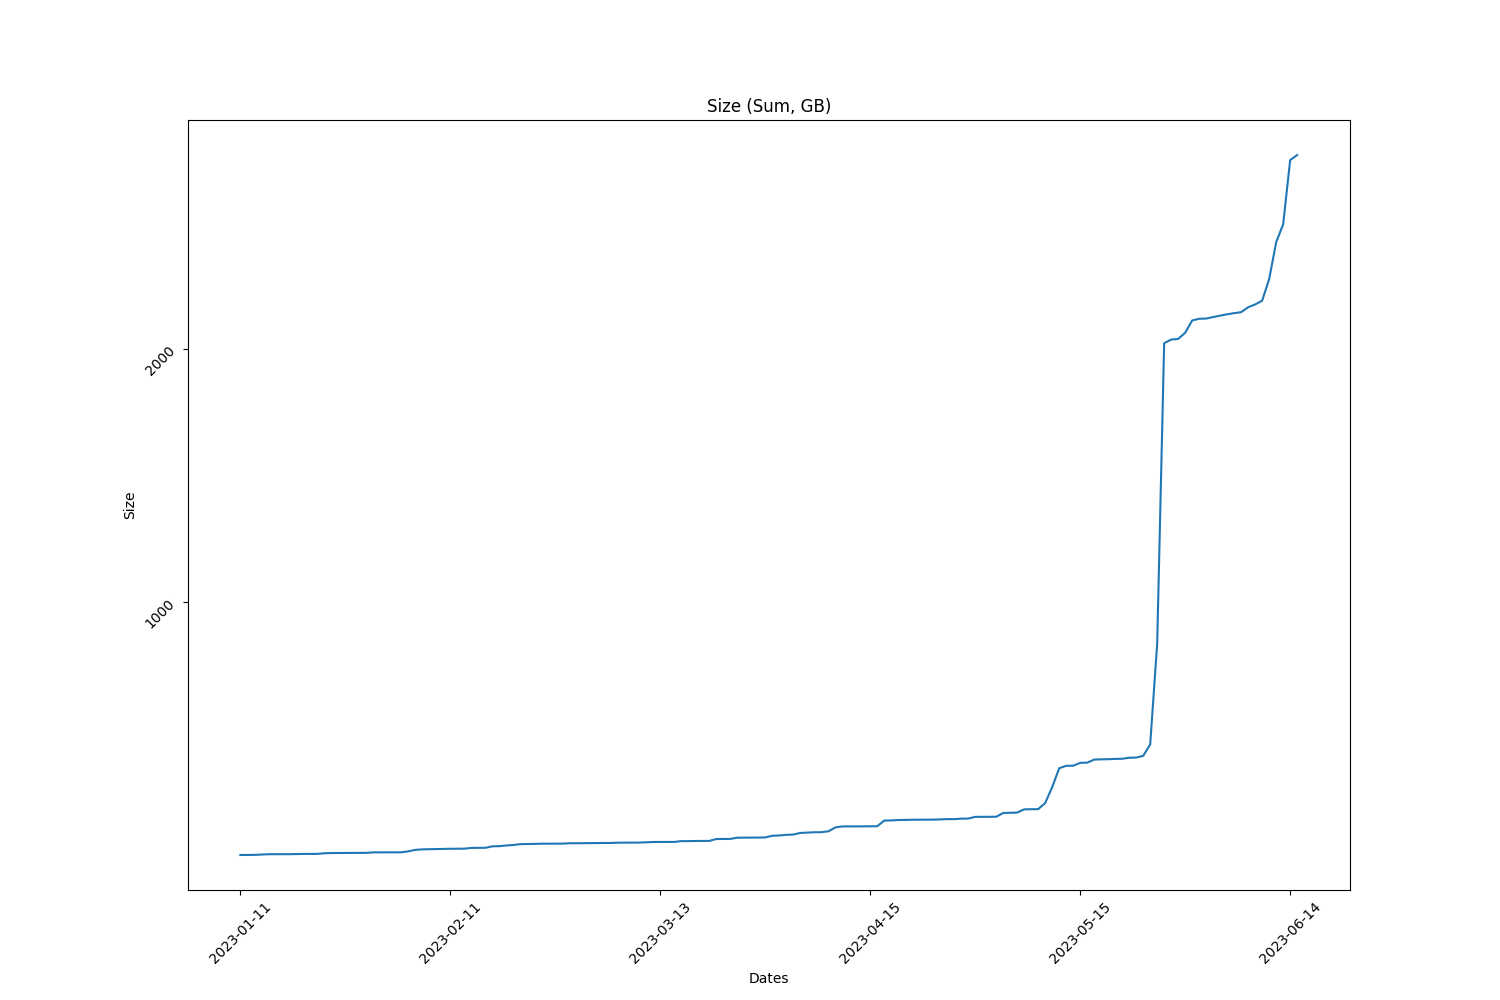
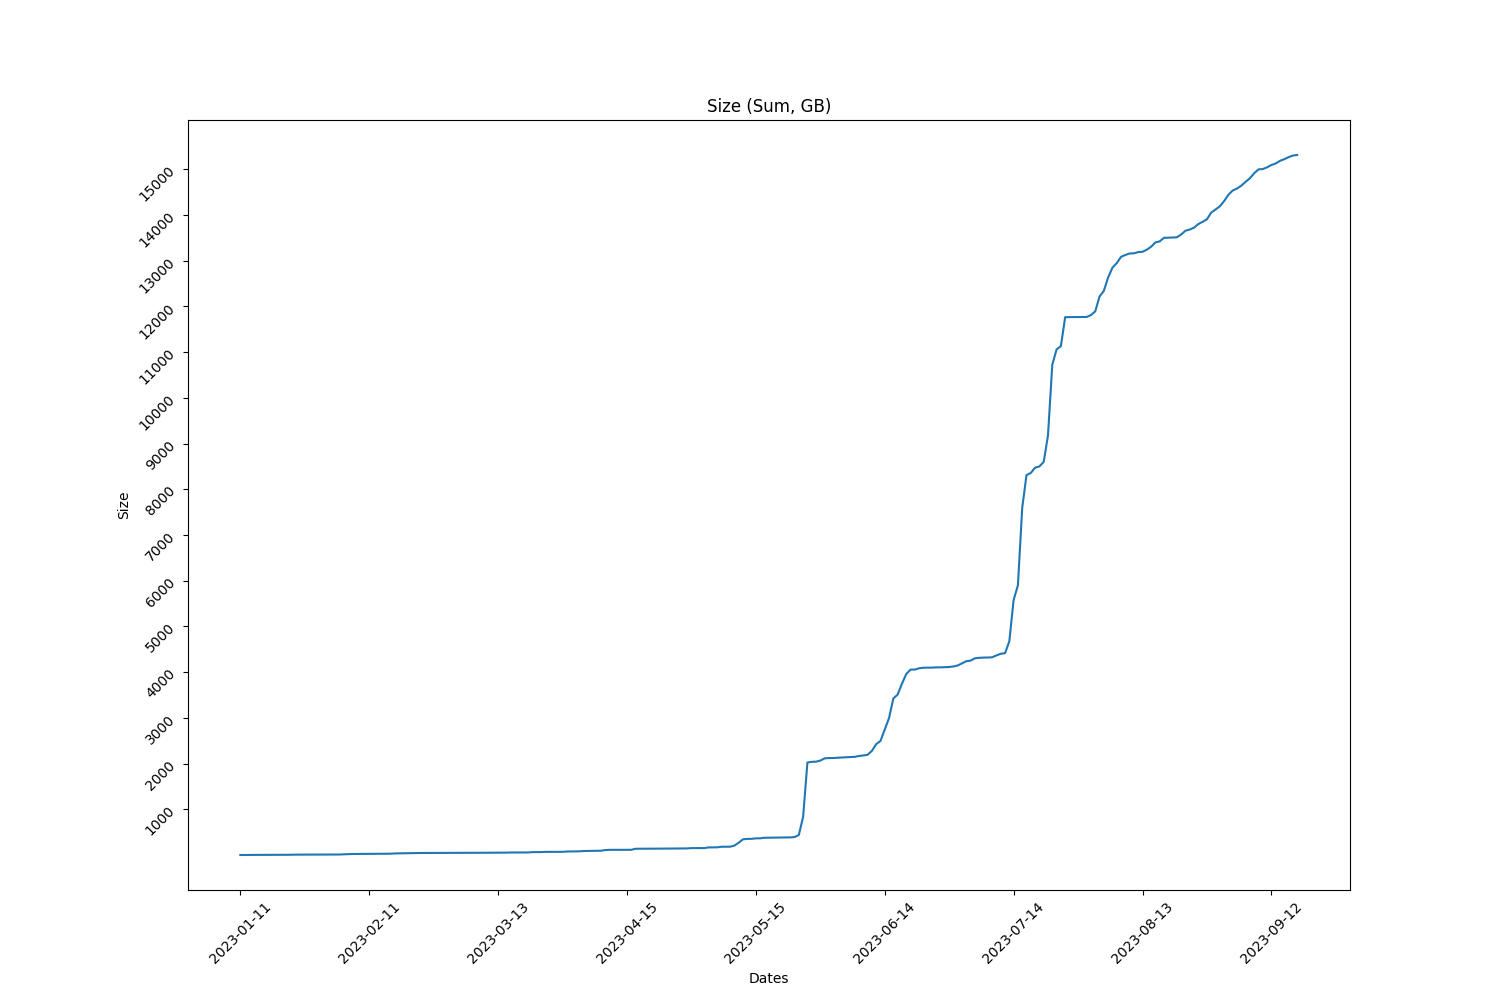
fix draw

diff --git a/report.py b/report.py
@@ -295,8 +295,8 @@ def get_grouped_obj_dates(data, action):
     result[key] = { 'size': size, 'num_objects': num_objects}
   return result
 
-def get_draw_objects(file1name, file2name):
-  data = get_objects()
+def get_draw_objects(data,file1name, file2name):
+  #data = get_objects()
   created_objects = []
   deleted_objects = []
   for record in data:
@@ -327,7 +327,6 @@ def get_draw_objects(file1name, file2name):
       continue
     num_objects[index] += num_objects[index-1]  
   
-
   plot(dates[1:], sizes[1:], 'Size (Sum, GB)', 'Dates', 'Size', 0, 1000 , 30, 1000,file1name)
   plot(dates[1:], num_objects[1:], 'Number of Objects', 'Dates', 'Number of Objects', 0, 12000, 10, 500,file2name)
 
@@ -599,7 +598,7 @@ if __name__ == '__main__':
 
   image1_file = 'objects_size_{}'.format(end_date)
   image2_file = 'objects_number_{}'.format(end_date)
-  get_draw_objects(image1_file, image2_file)
+  get_draw_objects(obj_data_,image1_file, image2_file)
   report += '![objects sizes](./{}.png) \n'.format(image1_file)
   report += '![objects number](./{}.png)  \n'.format(image2_file)
   

diff --git a/report_2023-09-15T10:08:18.000Z.md b/report_2023-09-15T10:08:18.000Z.md
@@ -33,16 +33,16 @@ Total Rewards: 1837403902447592
 # BUCKETS Info  
 |   id |   dataObjectsSize |   dataObjectsSizeLimit |   dataObjectsCount |   bags |   Utilization |   dataObjectsSize, GB |
 |------|-------------------|------------------------|--------------------|--------|---------------|-----------------------|
-|    7 |     3098319942286 |         21500000000000 |              85452 |   9080 |     0.144108  |               2882.72 |
-|   11 |     2669078846777 |         36000000000000 |              70316 |   1246 |     0.0741411 |               2483.35 |
-|   10 |     1406708461938 |         22000000000000 |              51179 |   1167 |     0.0639413 |               1308.82 |
-|   12 |     1005896681422 |         50000000000000 |              35222 |    887 |     0.0201179 |                935.9  |
-|    8 |    10830022740497 |         20000000000000 |              60758 |    979 |     0.541501  |              10076.4  |
-|    0 |    10687559094818 |         28000000000000 |             150227 |  26778 |     0.381699  |               9943.85 |
-|    4 |    13589105418508 |         28000000000000 |             146564 |  26898 |     0.485325  |              12643.5  |
-|    2 |     6609388637385 |         21000000000000 |             125748 |  26586 |     0.314733  |               6149.47 |
-|    3 |     7837152965318 |         28500000000000 |             107528 |  14348 |     0.274988  |               7291.8  |
-|    1 |     5479777412761 |         21000000000000 |             127780 |   9246 |     0.260942  |               5098.46 |
+|   11 |     2669330817333 |         36000000000000 |              70324 |   1246 |     0.0741481 |              2483.58  |
+|    7 |     3098558913589 |         21500000000000 |              85464 |   9080 |     0.144119  |              2882.94  |
+|    8 |    10830565564628 |         20000000000000 |              60770 |    979 |     0.541528  |             10076.9   |
+|   10 |     1407113043536 |         22000000000000 |              51237 |   1167 |     0.0639597 |              1309.2   |
+|   12 |     1006396114403 |         50000000000000 |              35284 |    887 |     0.0201279 |               936.365 |
+|    0 |    10693429911250 |         28000000000000 |             150353 |  26778 |     0.381908  |              9949.32  |
+|    2 |     6615358640375 |         21000000000000 |             125928 |  26586 |     0.315017  |              6155.02  |
+|    4 |    13594901960829 |         28000000000000 |             146688 |  26898 |     0.485532  |             12648.9   |
+|    1 |     5480767733048 |         21000000000000 |             127852 |   9246 |     0.260989  |              5099.38  |
+|    3 |     7842664204431 |         28500000000000 |             107650 |  14348 |     0.275181  |              7296.92  |
 ## BUCKETS CREATED
 Bucket Created: 0
 ## BUCKETS DELETED
@@ -70,9 +70,9 @@ Total Objects Size: 1149922668842 bytes
 |-----------|-------------|---------------|-----------------|-------------------|----------------------|
 |     29084 |       18520 |          1922 |              20 |                 2 |                    0 |
 # Total object Info 
-Total Objects: 239822 
+Total Objects: 240018 
 
-Total Objects Size: 16448695942890 bytes
+Total Objects Size: 16455392517116 bytes
 
 Total Number of Bags in use: 3194 bytes
 
@@ -81,15 +81,15 @@ Grand Total Number of Bags: 29307 bytes
 ## Objects Size Distribution 
 |   <10 MB |   <100 MB |   <1000 MB |   <10000 MB |   <100000 MB |   <1000000 MB |
 |----------|-----------|------------|-------------|--------------|---------------|
-|   150629 |    224599 |     237550 |      239644 |       239822 |        239822 |
+|   150739 |    224780 |     237746 |      239840 |       240018 |        240018 |
  
 |   0-10 MB |   10-100 MB |   100-1000 MB |   1000-10000 MB |   10000-100000 MB |   100000-10000000 MB |
 |-----------|-------------|---------------|-----------------|-------------------|----------------------|
-|    150629 |       73970 |         12951 |            2094 |               178 |                    0 |
+|    150739 |       74041 |         12966 |            2094 |               178 |                    0 |
 ## Objects Size Distribution Per Bag 
 |   0-10 MB |   10-100 MB |   100-1000 MB |   1000-10000 MB |   10000-100000 MB |   100000-10000000 MB |
 |-----------|-------------|---------------|-----------------|-------------------|----------------------|
-|    150629 |       73970 |         12951 |            2094 |               178 |                    0 |
+|    150739 |       74041 |         12966 |            2094 |               178 |                    0 |
 
 
 ![objects sizes](./objects_size_2023-09-15.png) 
@@ -103,61 +103,60 @@ Percentage Lost Objects: %0.3733753128279648
 
 |     id | createdAt                |      size |   storageBagId |
 |--------|--------------------------|-----------|----------------|
+| 190544 | 2023-09-01T12:56:24.000Z |    306630 |          28245 |
 | 187520 | 2023-08-31T13:31:12.000Z |    281348 |          28212 |
 | 187519 | 2023-08-31T13:31:12.000Z |     45436 |          28212 |
-| 190544 | 2023-09-01T12:56:24.000Z |    306630 |          28245 |
 | 190464 | 2023-09-01T12:30:06.000Z |    101597 |          28244 |
 | 190463 | 2023-09-01T12:30:06.000Z |     28282 |          28244 |
 | 190543 | 2023-09-01T12:56:24.000Z |     92674 |          28245 |
 | 190550 | 2023-09-01T13:01:18.001Z |    132942 |          28139 |
 | 190565 | 2023-09-01T13:07:00.001Z |     12856 |          28139 |
-| 191356 | 2023-09-01T17:36:12.000Z |    240157 |          28261 |
+| 195163 | 2023-09-02T13:08:42.000Z |     53305 |          28384 |
 | 191136 | 2023-09-01T16:27:00.000Z |     60418 |          28253 |
-| 191355 | 2023-09-01T17:36:12.000Z |     63807 |          28261 |
-| 191616 | 2023-09-01T18:59:42.001Z |      6052 |          28274 |
 | 191471 | 2023-09-01T18:11:30.000Z |    115215 |          28267 |
 | 191470 | 2023-09-01T18:11:30.000Z |     13224 |          28267 |
+| 191616 | 2023-09-01T18:59:42.001Z |      6052 |          28274 |
+| 191356 | 2023-09-01T17:36:12.000Z |    240157 |          28261 |
+| 191355 | 2023-09-01T17:36:12.000Z |     63807 |          28261 |
 | 193318 | 2023-09-02T04:34:00.000Z |    101387 |          28302 |
-| 194451 | 2023-09-02T10:20:54.000Z |    143421 |          28345 |
 | 193547 | 2023-09-02T06:03:06.000Z |      7174 |          28307 |
+| 194451 | 2023-09-02T10:20:54.000Z |    143421 |          28345 |
 | 194450 | 2023-09-02T10:20:54.000Z |     32473 |          28345 |
-| 197163 | 2023-09-02T21:47:48.000Z |    104875 |          28434 |
-| 195295 | 2023-09-02T13:37:36.001Z |    290884 |          28389 |
-| 196905 | 2023-09-02T20:48:48.001Z |    199246 |          28428 |
-| 196904 | 2023-09-02T20:48:48.001Z |     54310 |          28428 |
-| 195163 | 2023-09-02T13:08:42.000Z |     53305 |          28384 |
 | 195162 | 2023-09-02T13:08:42.000Z |     35010 |          28384 |
+| 196925 | 2023-09-02T20:53:06.001Z |    309586 |          28430 |
+| 195295 | 2023-09-02T13:37:36.001Z |    290884 |          28389 |
 | 195433 | 2023-09-02T14:13:36.000Z |    490311 |          28394 |
 | 195432 | 2023-09-02T14:13:36.000Z |     83419 |          28394 |
 | 195511 | 2023-09-02T14:45:48.001Z |    170963 |          28399 |
 | 195508 | 2023-09-02T14:45:12.000Z |    227437 |          28398 |
 | 195507 | 2023-09-02T14:45:12.000Z |     62246 |          28398 |
-| 196925 | 2023-09-02T20:53:06.001Z |    309586 |          28430 |
+| 196905 | 2023-09-02T20:48:48.001Z |    199246 |          28428 |
+| 196904 | 2023-09-02T20:48:48.001Z |     54310 |          28428 |
 | 196924 | 2023-09-02T20:53:06.001Z |     83787 |          28430 |
-| 197162 | 2023-09-02T21:47:48.000Z |     31870 |          28434 |
-| 200240 | 2023-09-03T10:14:00.000Z |     34338 |          28458 |
-| 200151 | 2023-09-03T09:54:06.000Z |     27374 |          28461 |
-| 200150 | 2023-09-03T09:54:06.000Z |     26505 |          28461 |
-| 200913 | 2023-09-03T13:27:06.001Z |     54433 |          28517 |
-| 200888 | 2023-09-03T12:55:06.000Z |     86773 |          28502 |
-| 200887 | 2023-09-03T12:55:06.000Z |     67537 |          28502 |
-| 200893 | 2023-09-03T12:57:00.000Z |     26598 |          28501 |
-| 200892 | 2023-09-03T12:57:00.000Z |      2784 |          28501 |
+| 200942 | 2023-09-03T14:48:54.001Z |    232600 |          28528 |
 | 200842 | 2023-09-03T12:27:12.000Z |    148230 |          28486 |
 | 200841 | 2023-09-03T12:27:12.000Z |     70032 |          28486 |
 | 200853 | 2023-09-03T12:32:54.000Z |    286998 |          28491 |
 | 200852 | 2023-09-03T12:32:54.000Z |     54833 |          28491 |
 | 200857 | 2023-09-03T12:39:30.000Z |     83715 |          28493 |
 | 200856 | 2023-09-03T12:39:30.000Z |     39427 |          28493 |
-| 200942 | 2023-09-03T14:48:54.001Z |    232600 |          28528 |
-| 200941 | 2023-09-03T14:48:54.001Z |     70878 |          28528 |
-| 200958 | 2023-09-03T15:18:54.001Z |      3189 |          28532 |
+| 200888 | 2023-09-03T12:55:06.000Z |     86773 |          28502 |
+| 200887 | 2023-09-03T12:55:06.000Z |     67537 |          28502 |
+| 200893 | 2023-09-03T12:57:00.000Z |     26598 |          28501 |
+| 200892 | 2023-09-03T12:57:00.000Z |      2784 |          28501 |
+| 197163 | 2023-09-02T21:47:48.000Z |    104875 |          28434 |
+| 197162 | 2023-09-02T21:47:48.000Z |     31870 |          28434 |
+| 200151 | 2023-09-03T09:54:06.000Z |     27374 |          28461 |
+| 200150 | 2023-09-03T09:54:06.000Z |     26505 |          28461 |
+| 200240 | 2023-09-03T10:14:00.000Z |     34338 |          28458 |
+| 200913 | 2023-09-03T13:27:06.001Z |     54433 |          28517 |
 | 200906 | 2023-09-03T13:11:12.000Z |    285760 |          28511 |
 | 200905 | 2023-09-03T13:11:12.000Z |     50227 |          28511 |
 | 200908 | 2023-09-03T13:12:00.000Z |    142499 |          28512 |
 | 200907 | 2023-09-03T13:12:00.000Z |     83273 |          28512 |
 | 200914 | 2023-09-03T13:27:06.001Z |    218332 |          28517 |
 | 200918 | 2023-09-03T13:51:12.000Z |    235201 |          28519 |
+| 200917 | 2023-09-03T13:51:12.000Z |    103089 |          28519 |
 | 201015 | 2023-09-03T17:39:30.000Z |    168122 |          28553 |
 | 201021 | 2023-09-03T17:49:36.000Z |    109572 |          28556 |
 | 201020 | 2023-09-03T17:49:36.000Z |     42600 |          28556 |
@@ -165,108 +164,105 @@ Percentage Lost Objects: %0.3733753128279648
 | 201024 | 2023-09-03T18:04:42.000Z |     51705 |          28559 |
 | 200989 | 2023-09-03T17:06:06.000Z |      4541 |          28546 |
 | 200997 | 2023-09-03T17:12:42.000Z |    212230 |          28549 |
-| 200917 | 2023-09-03T13:51:12.000Z |    103089 |          28519 |
-| 201214 | 2023-09-04T12:37:12.000Z |     15326 |          28601 |
+| 200941 | 2023-09-03T14:48:54.001Z |     70878 |          28528 |
+| 200958 | 2023-09-03T15:18:54.001Z |      3189 |          28532 |
 | 201102 | 2023-09-04T07:08:06.000Z |     92438 |          28579 |
 | 201103 | 2023-09-04T07:08:06.000Z |    301918 |          28579 |
-| 201200 | 2023-09-04T12:18:18.000Z |     24816 |          28595 |
+| 202375 | 2023-09-04T20:12:54.001Z |    165020 |          28648 |
+| 201214 | 2023-09-04T12:37:12.000Z |     15326 |          28601 |
 | 201242 | 2023-09-04T13:34:36.002Z |    368040 |          28613 |
 | 201241 | 2023-09-04T13:34:36.002Z |     65936 |          28613 |
-| 201429 | 2023-09-04T16:20:42.000Z |    148167 |          28636 |
+| 201200 | 2023-09-04T12:18:18.000Z |     24816 |          28595 |
 | 201299 | 2023-09-04T14:54:48.004Z |    209269 |          28625 |
 | 201298 | 2023-09-04T14:54:48.004Z |     88065 |          28625 |
+| 201429 | 2023-09-04T16:20:42.000Z |    148167 |          28636 |
 | 201428 | 2023-09-04T16:20:42.000Z |     67731 |          28636 |
-| 202375 | 2023-09-04T20:12:54.001Z |    165020 |          28648 |
-| 203521 | 2023-09-05T00:46:48.000Z |     52795 |          28666 |
 | 202747 | 2023-09-04T21:38:54.000Z |    345674 |          28659 |
-| 202924 | 2023-09-04T22:23:42.000Z |    306453 |          28662 |
-| 202923 | 2023-09-04T22:23:42.000Z |     96829 |          28662 |
+| 205999 | 2023-09-05T11:41:48.000Z |    403315 |          28702 |
 | 203009 | 2023-09-04T22:42:18.001Z |      5642 |          28664 |
+| 203521 | 2023-09-05T00:46:48.000Z |     52795 |          28666 |
 | 203520 | 2023-09-05T00:46:48.000Z |     16966 |          28666 |
 | 206026 | 2023-09-05T16:49:18.000Z |     64106 |          28718 |
+| 206025 | 2023-09-05T16:49:18.000Z |     40625 |          28718 |
+| 206044 | 2023-09-05T20:06:12.000Z |     26438 |          28729 |
+| 202924 | 2023-09-04T22:23:42.000Z |    306453 |          28662 |
+| 202923 | 2023-09-04T22:23:42.000Z |     96829 |          28662 |
 | 204485 | 2023-09-05T04:36:54.001Z |    374563 |          28668 |
 | 204484 | 2023-09-05T04:36:54.001Z |     84112 |          28668 |
 | 206055 | 2023-09-05T21:23:00.000Z |     45495 |          28737 |
-| 205999 | 2023-09-05T11:41:48.000Z |    403315 |          28702 |
-| 206025 | 2023-09-05T16:49:18.000Z |     40625 |          28718 |
-| 206044 | 2023-09-05T20:06:12.000Z |     26438 |          28729 |
-| 207524 | 2023-09-06T03:14:24.001Z |    194859 |          28743 |
+| 208805 | 2023-09-06T07:47:48.000Z |    223285 |          28759 |
 | 206097 | 2023-09-05T22:19:06.001Z |     35206 |          28739 |
 | 206096 | 2023-09-05T22:19:06.001Z |     46913 |          28739 |
+| 207524 | 2023-09-06T03:14:24.001Z |    194859 |          28743 |
 | 207523 | 2023-09-06T03:14:24.001Z |     54296 |          28743 |
 | 207714 | 2023-09-06T03:55:30.000Z |    408221 |          28746 |
 | 207713 | 2023-09-06T03:55:30.000Z |     32298 |          28746 |
 | 208454 | 2023-09-06T06:25:18.001Z |    236191 |          28754 |
 | 208453 | 2023-09-06T06:25:18.001Z |     18974 |          28754 |
-| 208805 | 2023-09-06T07:47:48.000Z |    223285 |          28759 |
+| 208858 | 2023-09-06T10:49:42.000Z |    111728 |          28777 |
+| 208857 | 2023-09-06T10:49:42.000Z |     25571 |          28777 |
 | 208804 | 2023-09-06T07:47:48.000Z |     34983 |          28759 |
 | 208819 | 2023-09-06T09:01:06.000Z |     11521 |          28764 |
 | 208824 | 2023-09-06T09:13:30.000Z |    220541 |          28767 |
 | 208816 | 2023-09-06T08:45:00.000Z |    334975 |          28763 |
 | 208823 | 2023-09-06T09:13:30.000Z |     71563 |          28767 |
+| 211680 | 2023-09-06T22:40:06.000Z |   1640969 |          28731 |
 | 209899 | 2023-09-06T16:27:12.000Z |    392583 |          28802 |
-| 208858 | 2023-09-06T10:49:42.000Z |    111728 |          28777 |
-| 208857 | 2023-09-06T10:49:42.000Z |     25571 |          28777 |
-| 209286 | 2023-09-06T14:25:18.000Z |      7344 |          28791 |
 | 209898 | 2023-09-06T16:27:12.000Z |     81769 |          28802 |
-| 211636 | 2023-09-06T22:29:06.000Z |  49948919 |          28731 |
-| 211706 | 2023-09-06T22:44:36.001Z |    322689 |          28731 |
-| 211707 | 2023-09-06T22:44:36.001Z |      4550 |          28731 |
 | 211580 | 2023-09-06T22:16:48.001Z |   1335219 |          28731 |
 | 211581 | 2023-09-06T22:16:48.001Z |     34744 |          28731 |
-| 211680 | 2023-09-06T22:40:06.000Z |   1640969 |          28731 |
-| 211681 | 2023-09-06T22:40:06.000Z |      4498 |          28731 |
+| 211636 | 2023-09-06T22:29:06.000Z |  49948919 |          28731 |
+| 211637 | 2023-09-06T22:29:06.000Z |     12436 |          28731 |
 | 211779 | 2023-09-06T22:57:12.005Z |    387348 |          28819 |
 | 211778 | 2023-09-06T22:57:12.005Z |     18173 |          28819 |
-| 211637 | 2023-09-06T22:29:06.000Z |     12436 |          28731 |
+| 209286 | 2023-09-06T14:25:18.000Z |      7344 |          28791 |
+| 211706 | 2023-09-06T22:44:36.001Z |    322689 |          28731 |
+| 211707 | 2023-09-06T22:44:36.001Z |      4550 |          28731 |
 | 211955 | 2023-09-06T23:29:24.001Z |     38735 |          28822 |
 | 211954 | 2023-09-06T23:29:24.001Z |     72433 |          28822 |
+| 211681 | 2023-09-06T22:40:06.000Z |      4498 |          28731 |
+| 213048 | 2023-09-07T09:00:30.001Z |     56632 |          28836 |
+| 213670 | 2023-09-07T12:10:42.000Z |     67967 |          28846 |
+| 213218 | 2023-09-07T10:36:06.000Z | 672995906 |          28552 |
+| 213669 | 2023-09-07T12:10:42.000Z |     53792 |          28846 |
 | 214833 | 2023-09-07T16:22:18.001Z |      4430 |          28763 |
+| 215604 | 2023-09-07T19:04:00.000Z |     32990 |          28870 |
 | 214786 | 2023-09-07T16:13:54.000Z |    188589 |          28860 |
 | 214785 | 2023-09-07T16:13:54.000Z |     81837 |          28860 |
-| 213048 | 2023-09-07T09:00:30.001Z |     56632 |          28836 |
-| 213218 | 2023-09-07T10:36:06.000Z | 672995906 |          28552 |
-| 213670 | 2023-09-07T12:10:42.000Z |     67967 |          28846 |
-| 213669 | 2023-09-07T12:10:42.000Z |     53792 |          28846 |
-| 215515 | 2023-09-07T18:48:00.000Z |     97608 |          28868 |
 | 215480 | 2023-09-07T18:42:00.000Z |    227378 |          28867 |
 | 215479 | 2023-09-07T18:42:00.000Z |     63377 |          28867 |
-| 215604 | 2023-09-07T19:04:00.000Z |     32990 |          28870 |
+| 215515 | 2023-09-07T18:48:00.000Z |     97608 |          28868 |
 | 215603 | 2023-09-07T19:04:00.000Z |      6086 |          28870 |
+| 218749 | 2023-09-08T06:24:18.000Z |    134014 |          28882 |
 | 215895 | 2023-09-07T20:06:42.000Z |     74453 |          28874 |
 | 215894 | 2023-09-07T20:06:42.000Z |     57792 |          28874 |
 | 218741 | 2023-09-08T06:23:18.000Z |    134014 |          28881 |
 | 218740 | 2023-09-08T06:23:18.000Z |      8994 |          28881 |
-| 221656 | 2023-09-08T16:32:54.000Z |    158319 |          28906 |
-| 218749 | 2023-09-08T06:24:18.000Z |    134014 |          28882 |
 | 218748 | 2023-09-08T06:24:18.000Z |      8994 |          28882 |
 | 219868 | 2023-09-08T10:21:48.000Z |    102164 |          28892 |
 | 222681 | 2023-09-08T20:10:54.000Z |    106388 |          28913 |
+| 221656 | 2023-09-08T16:32:54.000Z |    158319 |          28906 |
 | 222373 | 2023-09-08T19:07:36.000Z |      3514 |          28555 |
 | 222680 | 2023-09-08T20:10:54.000Z |     75000 |          28913 |
 | 223216 | 2023-09-08T22:03:54.001Z |     41420 |          28877 |
 | 222815 | 2023-09-08T20:41:48.000Z |    212049 |          28916 |
 | 222814 | 2023-09-08T20:41:48.000Z |     12891 |          28916 |
-| 224524 | 2023-09-09T02:38:18.000Z |    240675 |          28930 |
+| 229341 | 2023-09-11T09:47:36.004Z |      4062 |          29043 |
 | 223440 | 2023-09-08T22:53:30.000Z |    253868 |          28924 |
 | 223439 | 2023-09-08T22:53:30.000Z |     66151 |          28924 |
-| 224523 | 2023-09-09T02:38:18.000Z |     62858 |          28930 |
-| 228265 | 2023-09-10T18:35:12.001Z |     41710 |          29031 |
+| 226315 | 2023-09-09T11:53:24.000Z |    123654 |          28952 |
+| 226314 | 2023-09-09T11:53:24.000Z |     68745 |          28952 |
 | 226454 | 2023-09-09T13:00:42.000Z |    334890 |          28959 |
 | 226453 | 2023-09-09T13:00:42.000Z |     77419 |          28959 |
 | 227144 | 2023-09-09T17:56:18.000Z |     29840 |          28964 |
 | 227143 | 2023-09-09T17:56:18.000Z |      6826 |          28964 |
-| 226315 | 2023-09-09T11:53:24.000Z |    123654 |          28952 |
-| 226314 | 2023-09-09T11:53:24.000Z |     68745 |          28952 |
-| 229341 | 2023-09-11T09:47:36.004Z |      4062 |          29043 |
 | 229232 | 2023-09-11T09:20:42.000Z |    163371 |          29043 |
+| 224524 | 2023-09-09T02:38:18.000Z |    240675 |          28930 |
+| 224523 | 2023-09-09T02:38:18.000Z |     62858 |          28930 |
+| 228265 | 2023-09-10T18:35:12.001Z |     41710 |          29031 |
+| 233472 | 2023-09-13T10:22:12.001Z |    136407 |          29106 |
 | 232463 | 2023-09-12T18:02:06.000Z |     64848 |          29076 |
 | 232462 | 2023-09-12T18:02:06.000Z |     57926 |          29076 |
-| 234749 | 2023-09-13T16:39:30.001Z | 374055876 |          29121 |
-| 233472 | 2023-09-13T10:22:12.001Z |    136407 |          29106 |
-| 233471 | 2023-09-13T10:22:12.001Z |     55001 |          29106 |
-| 234629 | 2023-09-13T14:35:12.000Z |   6157976 |          28648 |
-| 234630 | 2023-09-13T14:35:12.000Z |      8880 |          28648 |
 | 232893 | 2023-09-12T20:42:42.002Z |     15312 |          26517 |
 | 233034 | 2023-09-12T22:29:00.001Z |      3104 |          28287 |
 | 233036 | 2023-09-12T22:29:42.000Z |      8112 |          29057 |
@@ -274,10 +270,15 @@ Percentage Lost Objects: %0.3733753128279648
 | 233051 | 2023-09-13T00:58:18.001Z |  10350061 |          29087 |
 | 233056 | 2023-09-13T01:48:30.001Z |    248078 |          29089 |
 | 233055 | 2023-09-13T01:48:30.001Z |     57284 |          29089 |
+| 233471 | 2023-09-13T10:22:12.001Z |     55001 |          29106 |
+| 234629 | 2023-09-13T14:35:12.000Z |   6157976 |          28648 |
+| 234630 | 2023-09-13T14:35:12.000Z |      8880 |          28648 |
+| 234749 | 2023-09-13T16:39:30.001Z | 374055876 |          29121 |
+| 234750 | 2023-09-13T16:39:30.001Z |     31610 |          29121 |
+| 235345 | 2023-09-14T14:12:18.001Z |     23250 |          29148 |
 | 234796 | 2023-09-13T17:09:36.000Z |     47018 |          28287 |
 | 234802 | 2023-09-13T17:38:18.000Z |    269369 |          29128 |
 | 234801 | 2023-09-13T17:38:18.000Z |     81882 |          29128 |
-| 234750 | 2023-09-13T16:39:30.001Z |     31610 |          29121 |
 | 235025 | 2023-09-14T10:36:42.000Z |     68695 |          29142 |
 | 235026 | 2023-09-14T10:36:42.000Z |    297432 |          29142 |
 | 235029 | 2023-09-14T11:05:00.000Z |     29970 |          29135 |
@@ -285,6 +286,5 @@ Percentage Lost Objects: %0.3733753128279648
 | 235748 | 2023-09-14T15:56:30.001Z |     20490 |          29149 |
 | 235852 | 2023-09-14T19:32:12.001Z |     27901 |          29156 |
 | 235851 | 2023-09-14T19:32:12.001Z |     14102 |          29156 |
-| 236493 | 2023-09-15T06:59:06.001Z |    214847 |          29168 |
-| 235345 | 2023-09-14T14:12:18.001Z |     23250 |          29148 |
-| 236492 | 2023-09-15T06:59:06.001Z |     77760 |          29168 | 
+| 236492 | 2023-09-15T06:59:06.001Z |     77760 |          29168 |
+| 236493 | 2023-09-15T06:59:06.001Z |    214847 |          29168 | 
